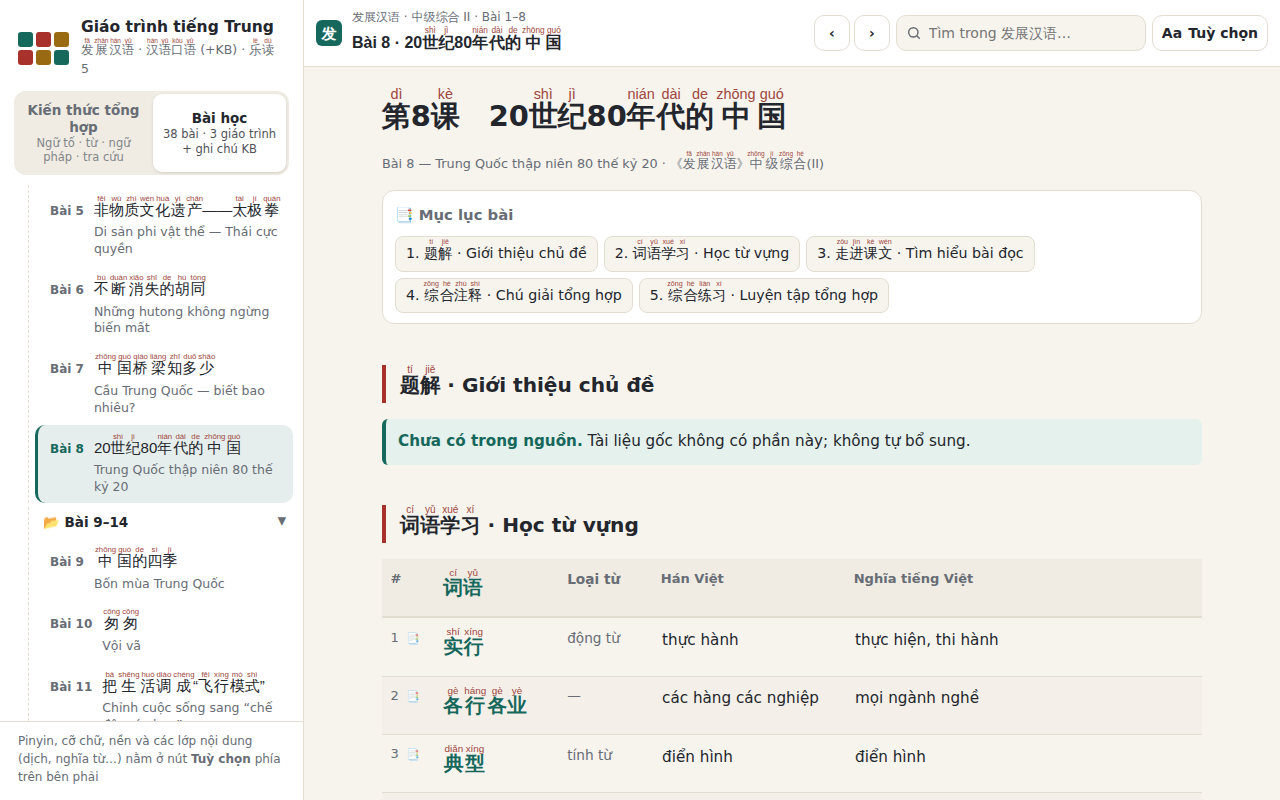
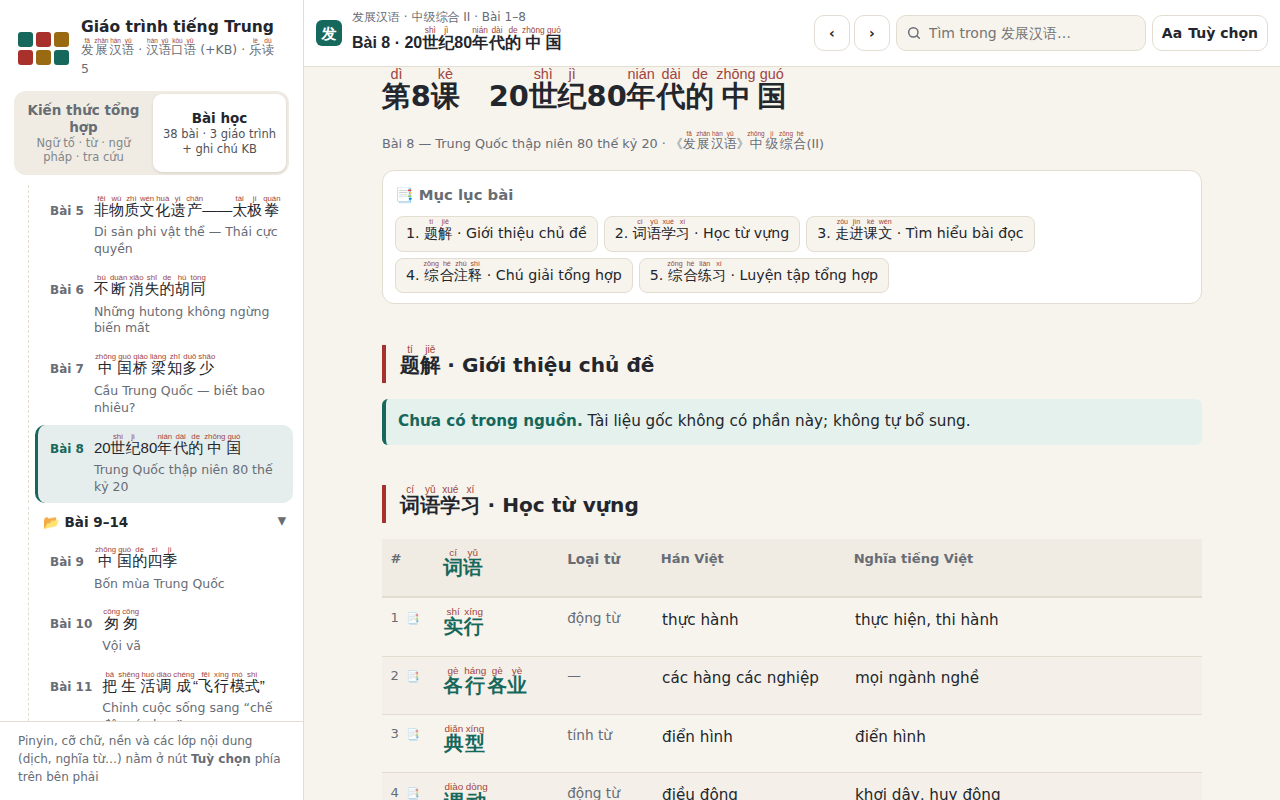
QA S1–S12: báo cáo đầy đủ và ảnh S12
Claude-Session: https://claude.ai/code/session_01ChHB2GPsF6Jz3mYjSds2jD

diff --git a/tools/qa_browser.js b/tools/qa_browser.js
@@ -16,7 +16,7 @@ for(const [vn,w,h] of views)for(const th of themes){
     await p.screenshot({path:'reports/anh/qa/'+name});
     const shell=await p.evaluate(()=>({sw:document.documentElement.scrollWidth,cw:document.documentElement.clientWidth,theme:document.documentElement.getAttribute('data-u-theme')}));
     let fr=null;for(const f of p.frames()){if(f===p.mainFrame())continue;
-      const r=await f.evaluate(()=>({vis:document.body&&document.body.offsetWidth>0&&innerHeight>0,sw:document.documentElement.scrollWidth,cw:document.documentElement.clientWidth,ruby:document.querySelectorAll('ruby').length,rt0:[...document.querySelectorAll('ruby')].filter(r=>{const t=r.querySelector('rt');return !t||!t.textContent.trim()}).length,theme:document.documentElement.getAttribute('data-u-theme')})).catch(()=>null);
+      const r=await f.evaluate(()=>({vis:document.body&&document.body.offsetWidth>0&&innerHeight>0,sw:document.documentElement.scrollWidth,cw:document.documentElement.clientWidth,ruby:document.querySelectorAll('ruby').length,rt0:[...document.querySelectorAll('ruby')].filter(r=>{const t=r.querySelector('rt');return !t||!(t.textContent.trim()||(t.dataset.p||'').trim())}).length,theme:document.documentElement.getAttribute('data-u-theme')})).catch(()=>null);
       const on=await f.frameElement().then(e=>e.evaluate(x=>x.classList.contains('on'))).catch(()=>false);
       if(r&&on)fr=r}
     rows.push({k,vn,th,shell,fr,name})}

diff --git a/reports/QA_S1_S12.md b/reports/QA_S1_S12.md
@@ -158,6 +158,48 @@ Mọi `localStorage.*` ở khung ngoài: `u3-set`, `u3-last`, `u3xb:*` (đã mig
 
 Số banner: 5. Theo mục 3.9 dự kiến: bài 2 题解, bài 4 走进课文, bài 8 题解/走进课文, bài 6 «Trang 100».
 
+
+## S12 · layout-snapshot và S6 (ruby lúc chạy)
+
+Ảnh: `reports/anh/qa/` (6 trang × desktop/mobile × sáng/tối = 24 ảnh).
+
+| trang | khung | giao diện | tràn ngang shell | tràn ngang khung | ruby | `<rt>` rỗng | theme shell/khung |
+|---|---|---|---|---|---|---|---|
+| fz:l05 | desktop | light | không | không | 80583 | 0 | light/light |
+| fz:l08 | desktop | light | không | không | 80583 | 0 | light/light |
+| ky:l04 | desktop | light | không | không | 91827 | 0 | light/light |
+| ky:l08 | desktop | light | không | không | 91827 | 0 | light/light |
+| ld:l01 | desktop | light | không | không | 4357 | 0 | light/light |
+| kb:l04 | desktop | light | không | không | 11429 | 0 | light/light |
+| fz:l05 | desktop | dark | không | không | 80583 | 0 | dark/dark |
+| fz:l08 | desktop | dark | không | không | 80583 | 0 | dark/dark |
+| ky:l04 | desktop | dark | không | không | 91827 | 0 | dark/dark |
+| ky:l08 | desktop | dark | không | không | 91827 | 0 | dark/dark |
+| ld:l01 | desktop | dark | không | không | 4357 | 0 | dark/dark |
+| kb:l04 | desktop | dark | không | không | 11429 | 0 | dark/dark |
+| fz:l05 | mobile | light | không | không | 80583 | 0 | light/light |
+| fz:l08 | mobile | light | không | không | 80583 | 0 | light/light |
+| ky:l04 | mobile | light | không | không | 91827 | 0 | light/light |
+| ky:l08 | mobile | light | không | không | 91827 | 0 | light/light |
+| ld:l01 | mobile | light | không | không | 4357 | 0 | light/light |
+| kb:l04 | mobile | light | không | không | 11429 | 0 | light/light |
+| fz:l05 | mobile | dark | không | không | 80583 | 0 | dark/dark |
+| fz:l08 | mobile | dark | không | không | 80583 | 0 | dark/dark |
+| ky:l04 | mobile | dark | không | không | 91827 | 0 | dark/dark |
+| ky:l08 | mobile | dark | không | không | 91827 | 0 | dark/dark |
+| ld:l01 | mobile | dark | không | không | 4357 | 0 | dark/dark |
+| kb:l04 | mobile | dark | không | không | 11429 | 0 | dark/dark |
+
+Lỗi JS trang: không
+
+### Ghi chú đọc kết quả
+
+- **S1** `fz`: «Hán mất» còn lại chỉ là nhãn đã đổi theo bảng chuẩn (cột `词语`→`词` ở bài 3, 4) và `ld` mất 实况 do thống nhất nhãn kick với mục lục; mọi thân văn bài giữ nguyên. «Thêm» lớn ở bài 1, 2 là bảng từ đã ghi sẵn vào HTML (trước do JS dựng).
+- **S4** 28 bảng từ đúng thứ tự cột, cột English/例句 ẩn khi rỗng (bài 2, 8).
+- **S6** `ruby` tĩnh của `ky`: 0 lỗi; ruby của `fz`/`ld`/`kb` do bộ gắn pinyin dựng lúc chạy (pinyin ở `data-p`): 0 `<rt>` thiếu pinyin.
+- **S8** ghi chú ở KB (ky chỉ liên kết sang KB nên không có hộp gập): mọi dòng ghi chú trong md chuẩn đều có trong KB.
+- **S11** 5 banner: bài 2 (题解, 走进课文), bài 4 (走进课文, mục 四 bị cắt), bài 8 (题解, 走进课文). Bài 2 và 8 khớp danh sách nguồn thiếu; bài 6 «Trang 100» không có banner (không còn trong nguồn).
+
 ## Tổng kết
 
 | mã | kết quả |
